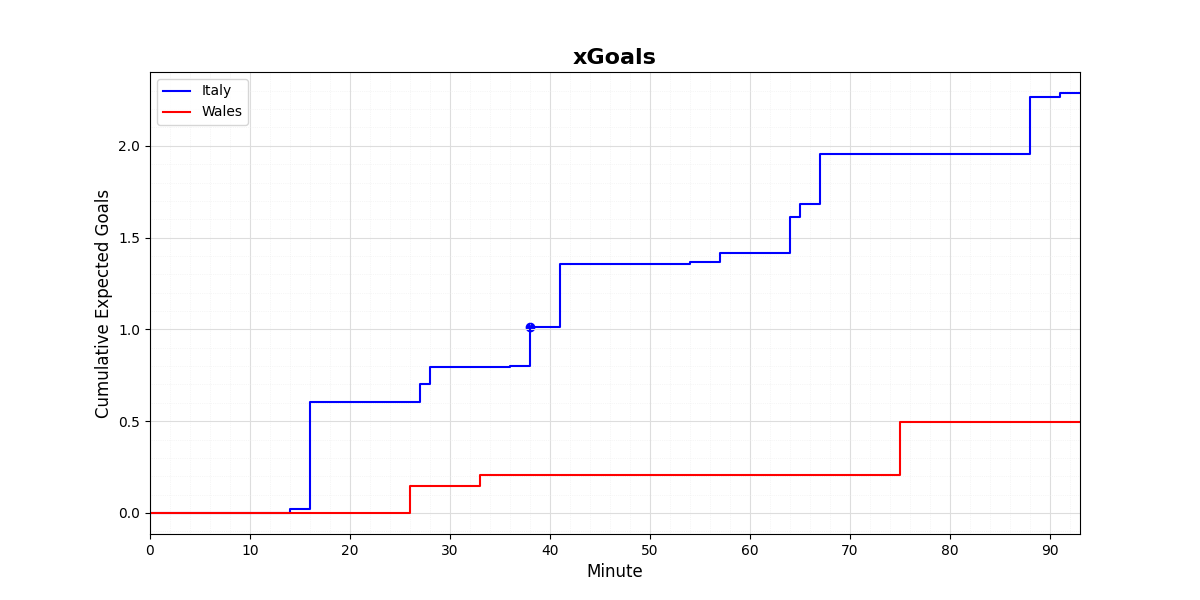
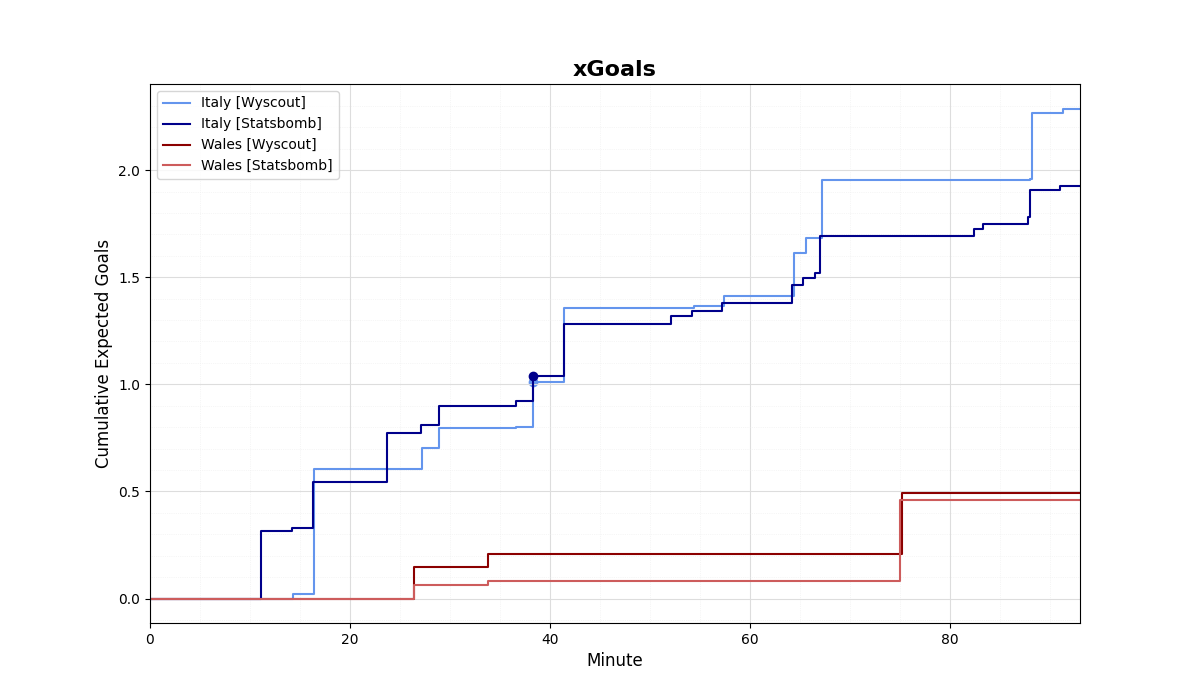
updated xG

diff --git a/utils/xG_graph.py b/utils/xG_graph.py
@@ -1,0 +1,89 @@
+import json
+import pandas as pd
+import numpy as np
+import matplotlib.pyplot as plt
+
+wyscoutPath   = f'data/wyscout/5034296/5034296_events.json'
+statsbombPath = f'data/statsbomb360/events/3788766.json'
+save_path     = 'assets/xG-Graph.png'
+
+
+def get_json(filepath):
+    with open(filepath, encoding='utf8') as f:
+        js = json.load(f)
+        return js
+
+
+#load both datasets into dataframes [TODO adapt file names/relative paths]
+wyscout = pd.json_normalize(get_json(wyscoutPath)['events'])
+statsb = pd.json_normalize(get_json(statsbombPath))
+
+
+#filter for shots and extract only relevant information into unified format [minute, second, xg, team, isGoal]
+shots_wy_r = wyscout[((wyscout['type.primary']=='shot') | (wyscout['type.primary']=='penalty'))]
+shots_sb_r = statsb[statsb['type.name']=='Shot']
+
+shots_wy = shots_wy_r[['minute','second','shot.xg','team.name','shot.isGoal']].rename(columns={'shot.xg':'xg', 'team.name':'team', 'shot.isGoal':'isGoal'})
+
+shots_sb_r['isGoal'] = shots_sb_r['shot.outcome.name']=='Goal'
+shots_sb = shots_sb_r[['minute','second','shot.statsbomb_xg', 'possession_team.name', 'isGoal']].rename(columns={'shot.statsbomb_xg':'xg', 'possession_team.name':'team'})
+
+
+#when passed data for one team in format [minute, second, cumXg(cumulated xg), ...] returns dataframe with points that create the 'steps' in the plot
+def cleanLines(data, max_):
+    '''inserts additional data points to create the steps'''
+    n = data.shape[0]
+    time = np.zeros(2*n+2, float)
+    time[-1] = max_
+    time[1:-1:2] = data['minute'] + data['second']/60.
+    time[2::2] = data['minute'] + data['second']/60.
+    plot_xg = np.zeros(2*n+2, float)
+    plot_xg[2:-1:2] = data['cumXg']
+    plot_xg[3::2] = data['cumXg']
+    
+    return pd.DataFrame(data={'time':time, 'xg':plot_xg})
+
+#seperates data by team, plots stepplot and points for goals
+def plot_xg(data_wy, data_sb, end, colors):
+    teams = data_wy['team'].unique()
+
+    for team, color in zip(teams, colors):
+        data_t_wy = data_wy[data_wy['team']==team].copy()
+        data_t_sb = data_sb[data_sb['team']==team].copy()
+
+        data_t_wy['cumXg'] = np.cumsum(data_t_wy['xg'])
+        data_t_sb['cumXg'] = np.cumsum(data_t_sb['xg'])
+
+        df_wy = cleanLines(data_t_wy, end)
+        df_sb = cleanLines(data_t_sb, end)
+
+        plt.plot(df_wy['time'], df_wy['xg'], label=team + ' [Wyscout]', color=color[0])
+        plt.plot(df_sb['time'], df_sb['xg'], label=team + ' [Statsbomb]', color=color[1])
+
+        data_g_wy = data_t_wy[data_t_wy['isGoal']]
+        data_g_sb = data_t_sb[data_t_sb['isGoal']]
+
+        plt.scatter(data_g_wy['minute'] + data_g_wy['second']/60., data_g_wy['cumXg'], color=color[0])
+        plt.scatter(data_g_sb['minute'] + data_g_sb['second']/60., data_g_sb['cumXg'], color=color[1])
+
+    plt.legend()
+
+config = get_json('plot_config.json')
+
+# actual plotting
+fig, ax = plt.subplots(figsize=(12, 7))
+
+ax.set_title("xGoals", fontsize=16, fontweight="semibold")
+ax.set_ylabel("Cumulative Expected Goals", fontsize=12, fontweight="light")
+ax.set_xlabel("Minute", fontsize=12, fontweight="light")
+
+ax.grid(which='major', color='#DDDDDD', linewidth=0.8)
+ax.grid(which='minor', color='#EEEEEE', linestyle=':', linewidth=0.5)
+ax.minorticks_on()
+ax.tick_params(which='minor', bottom=False, left=False)
+
+ax.set_xlim(0, 93)
+
+plot_xg(shots_wy, shots_sb, wyscout.iloc[-1].minute, colors=[['cornflowerblue', 'darkblue'], ['darkred', 'indianred']])
+
+plt.savefig(save_path)
